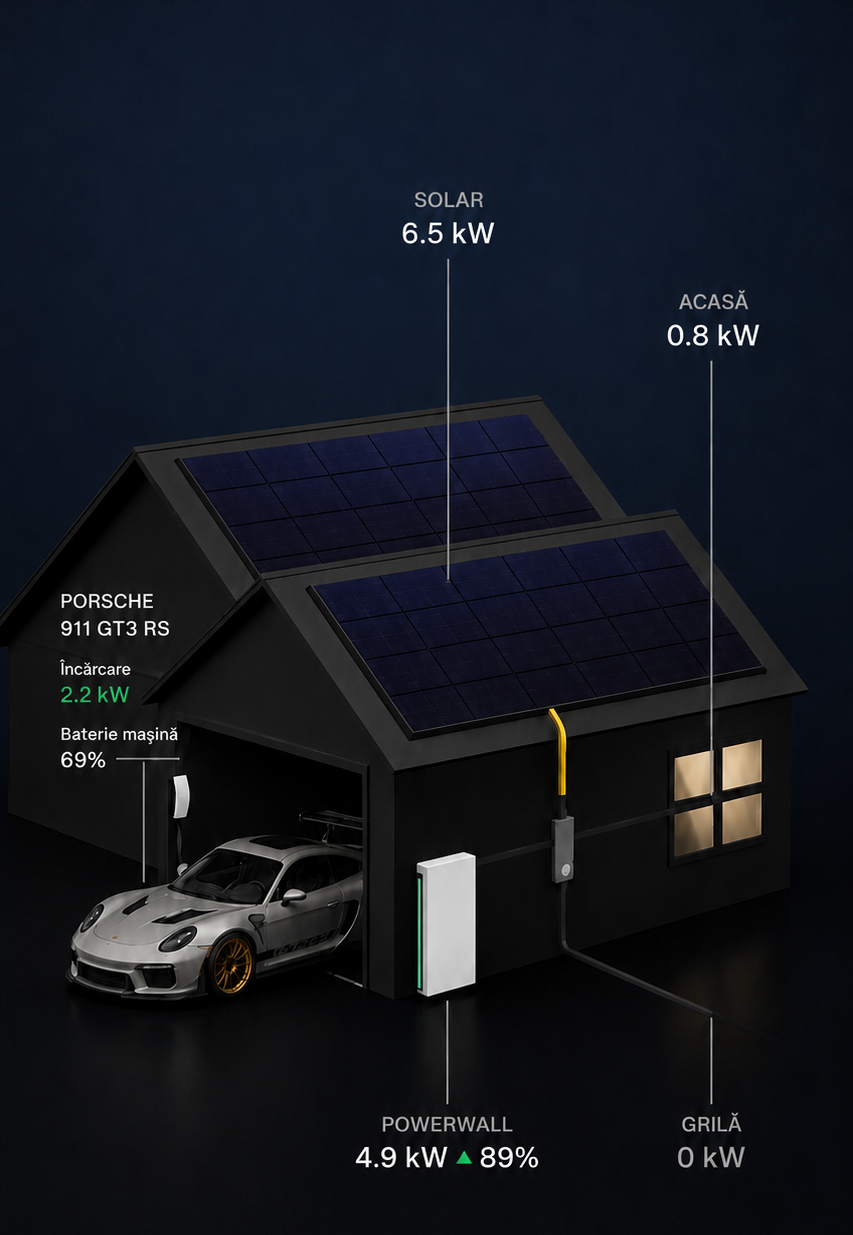
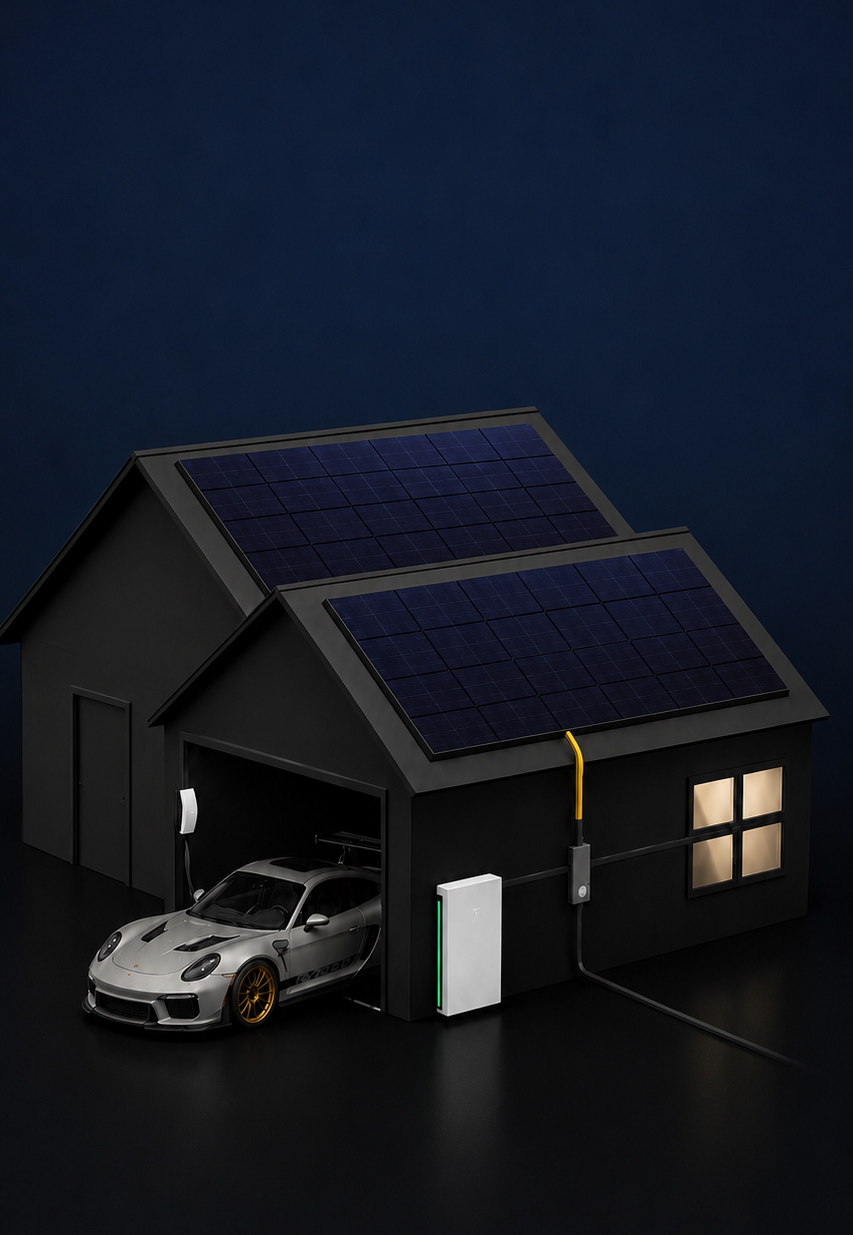
Energy Live: live readings over the clean estate render
Use the text-free clean plate (public/estate-live.png) and overlay live energy
readings as labels with leader lines, matching the original render's style:
SOLAR, ACASĂ, PORSCHE 911 GT3 RS (charge kW + car battery %), POWERWALL (kW · %)
and GRILĂ. Values start at the render's figures and update every 2s from the
on-device simulation, plus a LIVE badge.

Claude-Session: https://claude.ai/code/session_015qGhhAgxwQWdVBqYXKqVjw

diff --git a/app/twin/energy/page.tsx b/app/twin/energy/page.tsx
@@ -1,12 +1,13 @@
 "use client";
 
-import { useState } from "react";
+import { useState, useEffect } from "react";
 import Link from "next/link";
 import StatusBar from "../../components/layout/StatusBar";
 import BottomNav from "../../components/layout/BottomNav";
 import { useStore } from "../../lib/store";
 import { seriesPath } from "../../lib/twin/telemetry";
 import {
+  SCENARIOS, simulate, EnergyState, kw,
   MONTHLY_USAGE, MONTH_LABELS, ENERGY_SOURCES, AUTONOMY, TOU_PERIODS,
   SOLAR_VALUE, SOLAR_VALUE_TOTAL, OFFSET, BACKUP_EVENTS, BACKUP_SUMMARY,
   TARIFF_SERIES, TARIFF,
@@ -14,6 +15,19 @@ import {
 
 const TABS = ["Live", "Energie", "Impact", "Powerwall"] as const;
 type Tab = (typeof TABS)[number];
+
+// Starts at the render's values, then drifts live.
+const START: EnergyState = { solar: 6.5, home: 0.8, vehicle: 2.2, battery: 4.9, grid: 0, batteryPct: 89 };
+
+// Image is 853×1235; labels sit at lx/ly (%), leader lines run to anchors (px).
+const IMG_W = 853, IMG_H = 1235;
+const NODES = [
+  { id: "solar", title: "SOLAR", lx: 46, ly: 9, ax: 450, ay: 410, align: "center" as const },
+  { id: "home", title: "ACASĂ", lx: 86, ly: 42, ax: 690, ay: 745, align: "center" as const },
+  { id: "vehicle", title: "PORSCHE 911 GT3 RS", lx: 14, ly: 54, ax: 230, ay: 855, align: "left" as const },
+  { id: "battery", title: "POWERWALL", lx: 40, ly: 94, ax: 452, ay: 800, align: "center" as const },
+  { id: "grid", title: "GRILĂ", lx: 85, ly: 94, ax: 800, ay: 770, align: "center" as const },
+];
 
 export default function EnergyPage() {
   const [tab, setTab] = useState<Tab>("Live");
@@ -51,13 +65,66 @@ export default function EnergyPage() {
 
 // ── Live tab ─────────────────────────────────────────────────────────────────
 function LiveTab({ onGoTab }: { onGoTab: (t: Tab) => void }) {
+  const [s, setS] = useState<EnergyState>(START);
+  const [carPct, setCarPct] = useState(69);
+
+  useEffect(() => {
+    const id = setInterval(() => {
+      setS((prev) => simulate(prev, SCENARIOS[0], "self_powered", 20));
+      setCarPct((p) => Math.min(100, Math.round((p + 0.4) * 10) / 10));
+    }, 2000);
+    return () => clearInterval(id);
+  }, []);
+
+  const lbl: React.CSSProperties = { fontSize: 8.5, letterSpacing: 0.4, color: "#aebccb", textShadow: "0 1px 4px rgba(0,0,0,0.9)", lineHeight: 1.3 };
+  const valS: React.CSSProperties = { fontSize: 15, fontWeight: 700, color: "#fff", textShadow: "0 1px 5px rgba(0,0,0,0.95)", lineHeight: 1.25 };
+
+  const value = (id: string) => {
+    if (id === "solar") return <div style={valS}>{kw(s.solar)}</div>;
+    if (id === "home") return <div style={valS}>{kw(s.home)}</div>;
+    if (id === "battery") return <div style={{ ...valS, color: "#4ADE80" }}>{kw(s.battery)} · {Math.round(s.batteryPct)}%</div>;
+    if (id === "grid") return <div style={valS}>{kw(s.grid)}</div>;
+    // vehicle
+    return (
+      <>
+        <div style={{ ...lbl, marginTop: 2 }}>Încărcare</div>
+        <div style={{ ...valS, color: "#a78bfa" }}>{kw(s.vehicle)}</div>
+        <div style={{ ...lbl, marginTop: 2 }}>Bateria mașinii {Math.round(carPct)}%</div>
+      </>
+    );
+  };
+
   return (
     <div>
-      {/* Estate energy render */}
+      {/* Estate clean render + live labels */}
       <div className="px-4 mb-3">
         <div className="relative w-full rounded-3xl overflow-hidden" style={{ aspectRatio: "853 / 1235", border: "1px solid rgba(255,255,255,0.08)", background: "#0a0e16" }}>
           {/* eslint-disable-next-line @next/next/no-img-element */}
           <img src="/estate-live.png" alt="PRVIO Estate — energy" className="absolute inset-0 w-full h-full" style={{ objectFit: "cover", objectPosition: "center" }} />
+
+          {/* leader lines */}
+          <svg viewBox={`0 0 ${IMG_W} ${IMG_H}`} className="absolute inset-0 w-full h-full" preserveAspectRatio="none">
+            {NODES.map((n) => (
+              <g key={n.id}>
+                <line x1={(n.lx / 100) * IMG_W} y1={(n.ly / 100) * IMG_H} x2={n.ax} y2={n.ay} stroke="rgba(255,255,255,0.4)" strokeWidth={1.4} />
+                <circle cx={n.ax} cy={n.ay} r={4} fill="#fff" fillOpacity={0.8} />
+              </g>
+            ))}
+          </svg>
+
+          {/* labels */}
+          {NODES.map((n) => (
+            <div key={n.id} className="absolute" style={{ left: `${n.lx}%`, top: `${n.ly}%`, transform: `translate(${n.align === "left" ? "0" : "-50%"}, -50%)`, textAlign: n.align === "left" ? "left" : "center", zIndex: 2 }}>
+              <div style={n.id === "vehicle" ? { ...lbl, color: "#dce4ec", fontWeight: 600 } : lbl}>{n.title}</div>
+              {value(n.id)}
+            </div>
+          ))}
+
+          {/* LIVE badge */}
+          <div className="absolute top-3 left-3 flex items-center gap-1.5 px-2.5 py-1 rounded-full" style={{ background: "rgba(8,15,26,0.6)", border: "1px solid rgba(74,222,128,0.35)" }}>
+            <span className="w-1.5 h-1.5 rounded-full animate-pulse-glow" style={{ background: "var(--accent)", boxShadow: "0 0 6px var(--accent)" }} />
+            <span className="text-[10px] font-semibold" style={{ color: "var(--accent)" }}>LIVE</span>
+          </div>
         </div>
       </div>
 

diff --git a/CHANGELOG.md b/CHANGELOG.md
@@ -11,8 +11,9 @@ and this project adheres to [Semantic Versioning](https://semver.org/spec/v2.0.0
 ### Added
 - **Energy module (Tesla-style)** — a new `/twin/energy` surface modelled on the
   Tesla app's energy section, with four sub-tabs: **Live** (a photoreal 3D render
-  of the estate energy system — solar roof, Powerwall, EV under carport and grid
-  with their readings — as the hero visualization), **Energie** (monthly usage
+  of the estate energy system — solar roof, Powerwall, Porsche EV under carport
+  and grid — with **live readings** (Solar, Home, Powerwall %, vehicle charge,
+  grid) overlaid as labels with leader lines), **Energie** (monthly usage
   bar chart + "Utilizat din" source breakdown), **Impact** (autonomy donut,
   time-of-use split, solar value, solar offset, backup-outage history) and
   **Powerwall** (backup-reserve slider, operational mode, Tibber tariff graph,